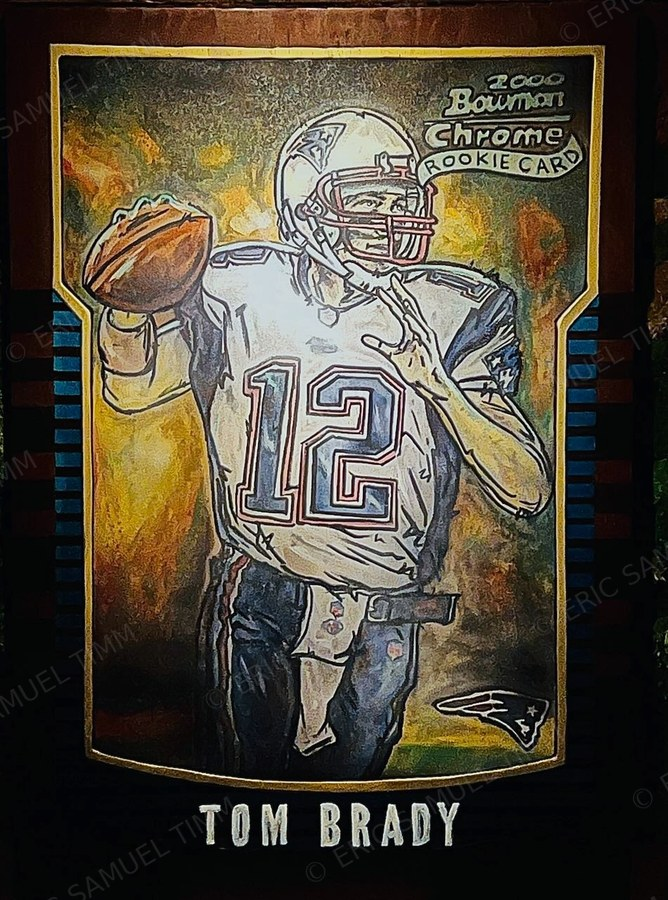
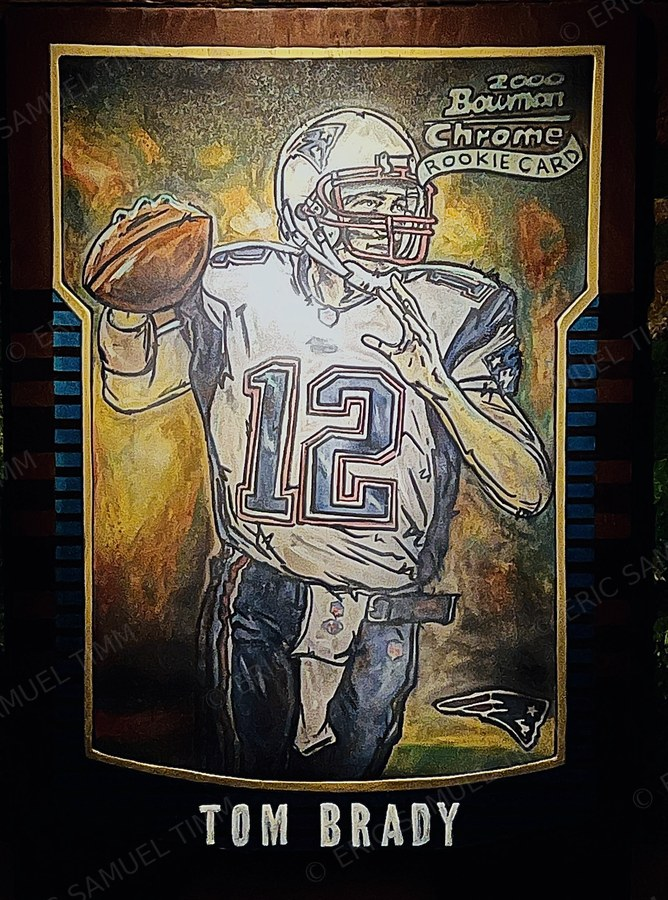
fix: use the full-resolution Brady original
assets/originals/brady.jpg held a 950x1280 copy while the Dropbox holds
the real 2040x2750 file (Original Photos/IMG_7974.jpg). Same frame --
identical after rescaling -- but every other original sources at around
1900px tall, so Brady was the one soft image in the grid.

Rebuilt the three variants from the full-size file.

Claude-Session: https://claude.ai/code/session_01QLk3bm8SFbjx59HwSVCDyF

diff --git a/public/_eric-site-notes.md b/public/_eric-site-notes.md
@@ -608,3 +608,22 @@ used to provide.
 
 **This is on staging only.** `sportslegendsart.com` is unaffected until
 someone promotes.
+
+## Brady was running at half resolution (17 Sep)
+Eric flagged the Brady original as "the wrong Brady". It is not a
+different painting — IMG_7974 in `Original Photos` is the only Brady in
+the Dropbox, and it is the same frame the site was already showing
+(mean pixel difference 3.5/255 after rescaling, i.e. identical).
+
+What *was* wrong: `assets/originals/brady.jpg` held a 950x1280 copy —
+the version pasted into chat — while Dropbox has the real 2040x2750
+file. Every other original sources at roughly 1900px tall, so Brady was
+the one soft image in the grid. The pipeline source is now IMG_7974 at
+full size.
+
+The remaining complaint is likely the photograph itself, not the file:
+Brady is a dim room shot with the canvas propped against a dark wall and
+the white jersey pushed to grey, where the other nine are flat, evenly
+lit captures. No amount of resampling fixes that — it needs a reshoot to
+match the rest of the set. `/fix` shows how far colour correction gets
+it, which is some of the way but not all.
